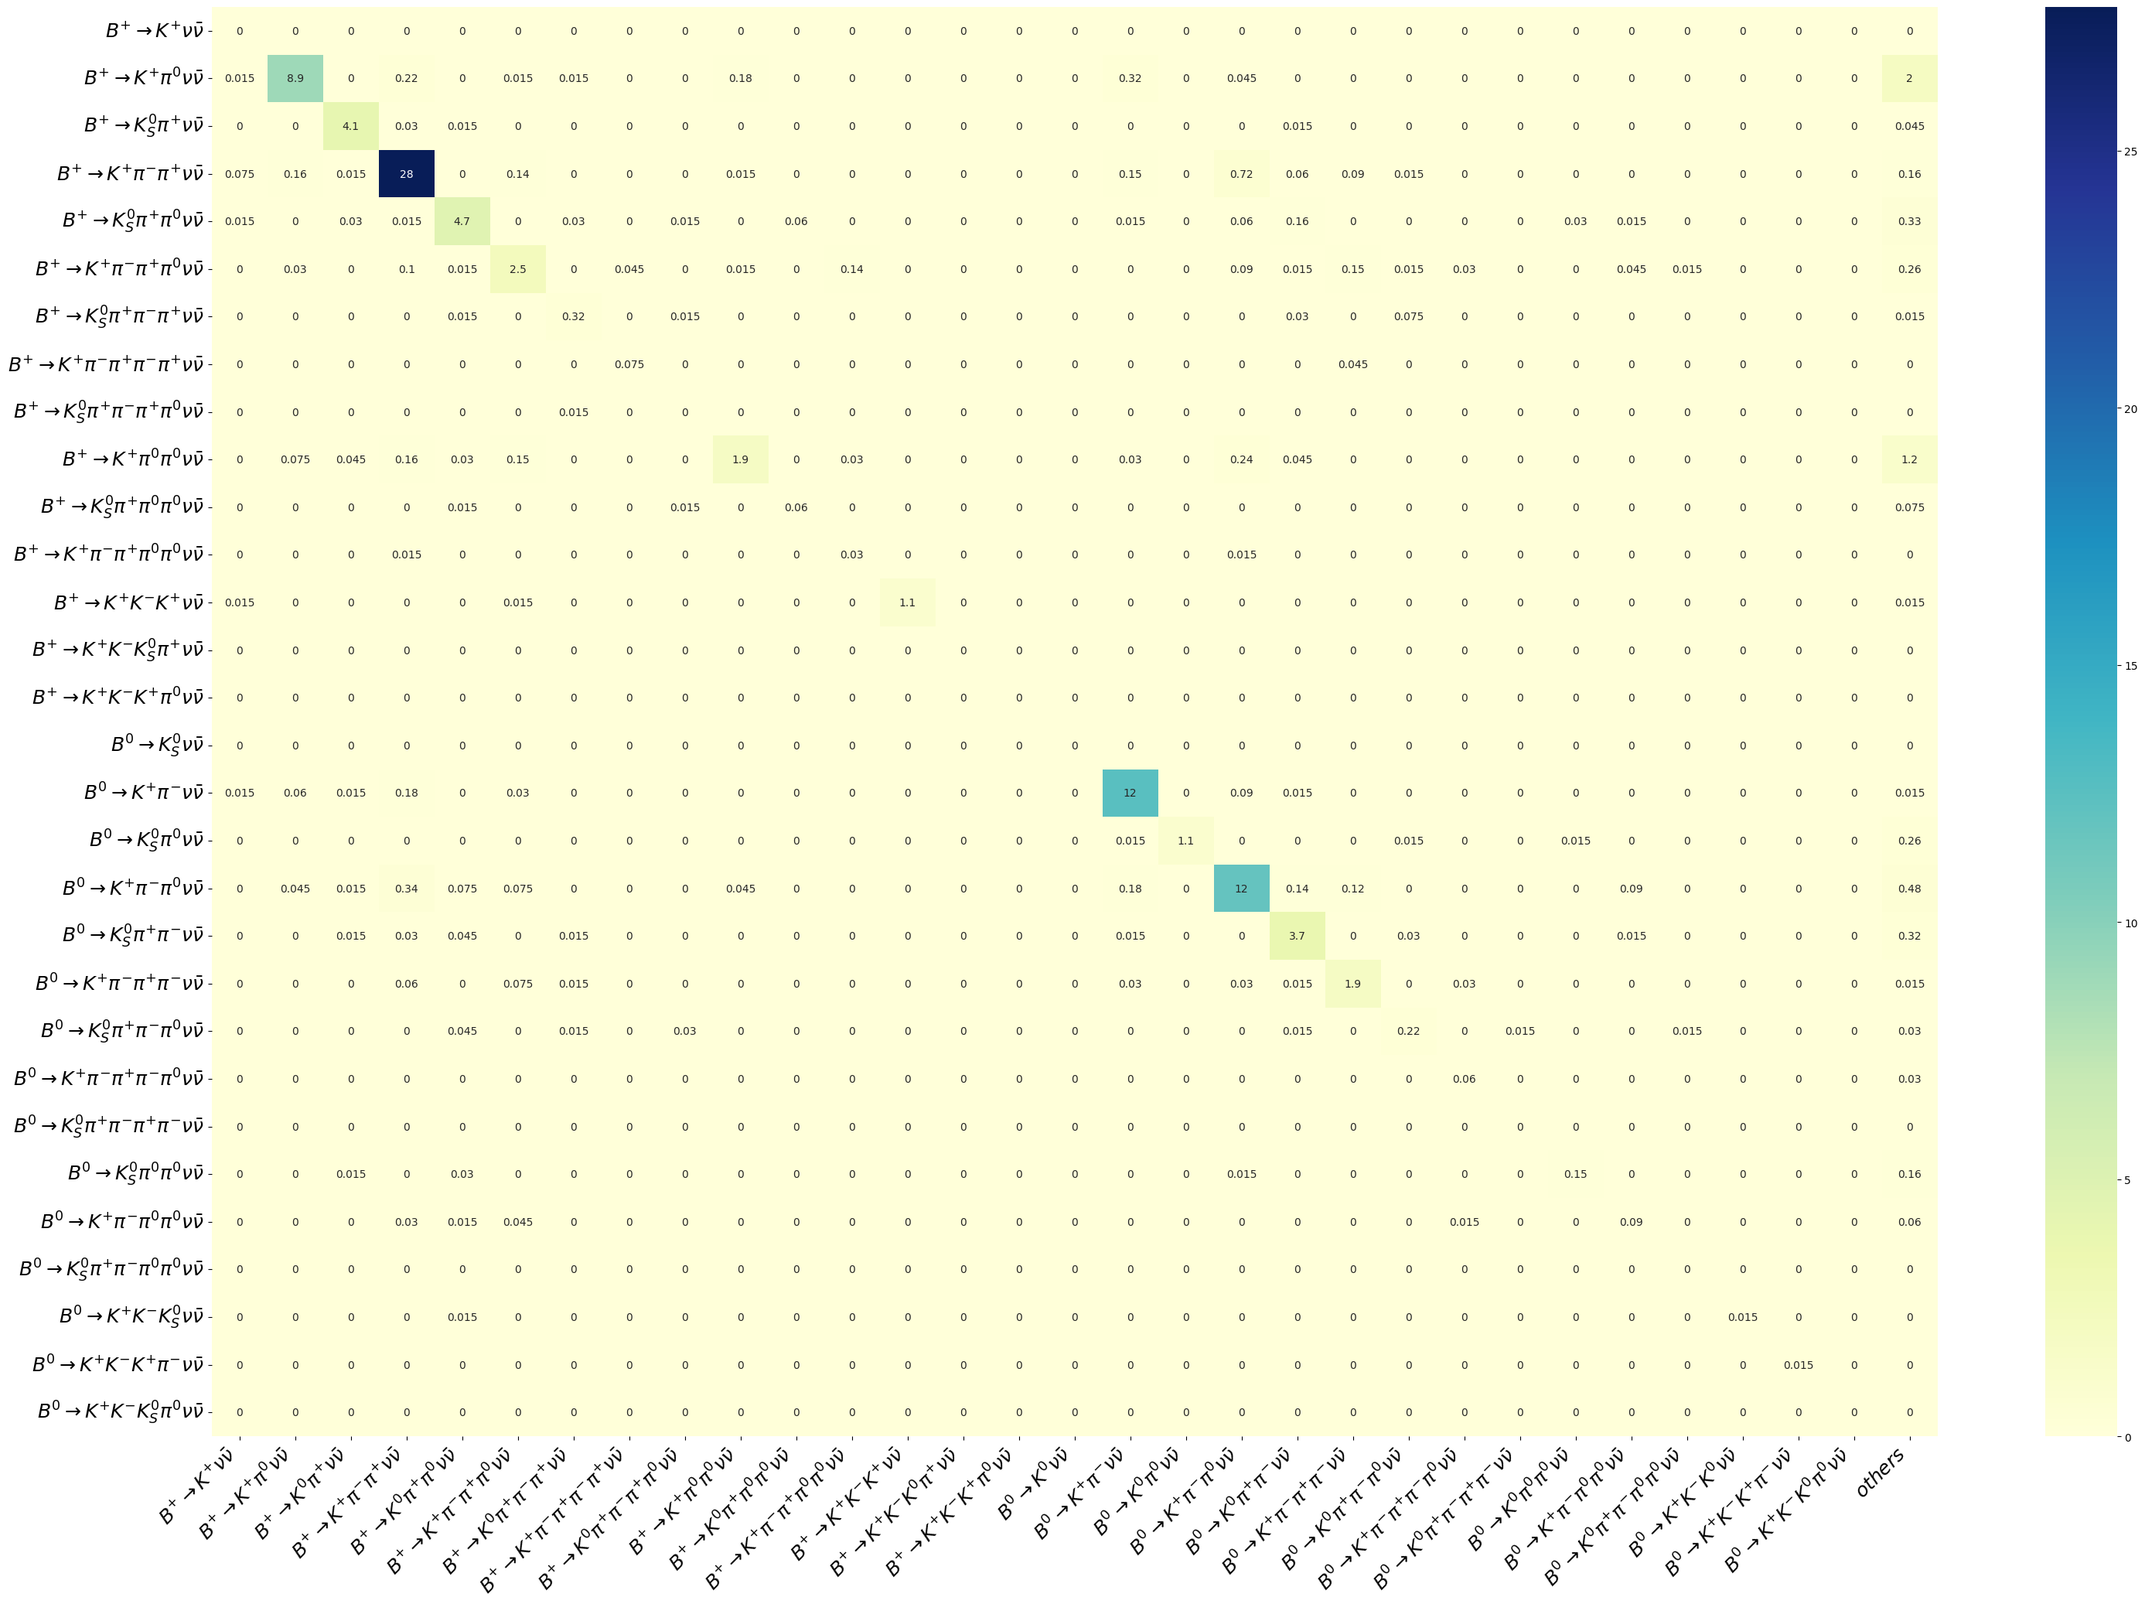
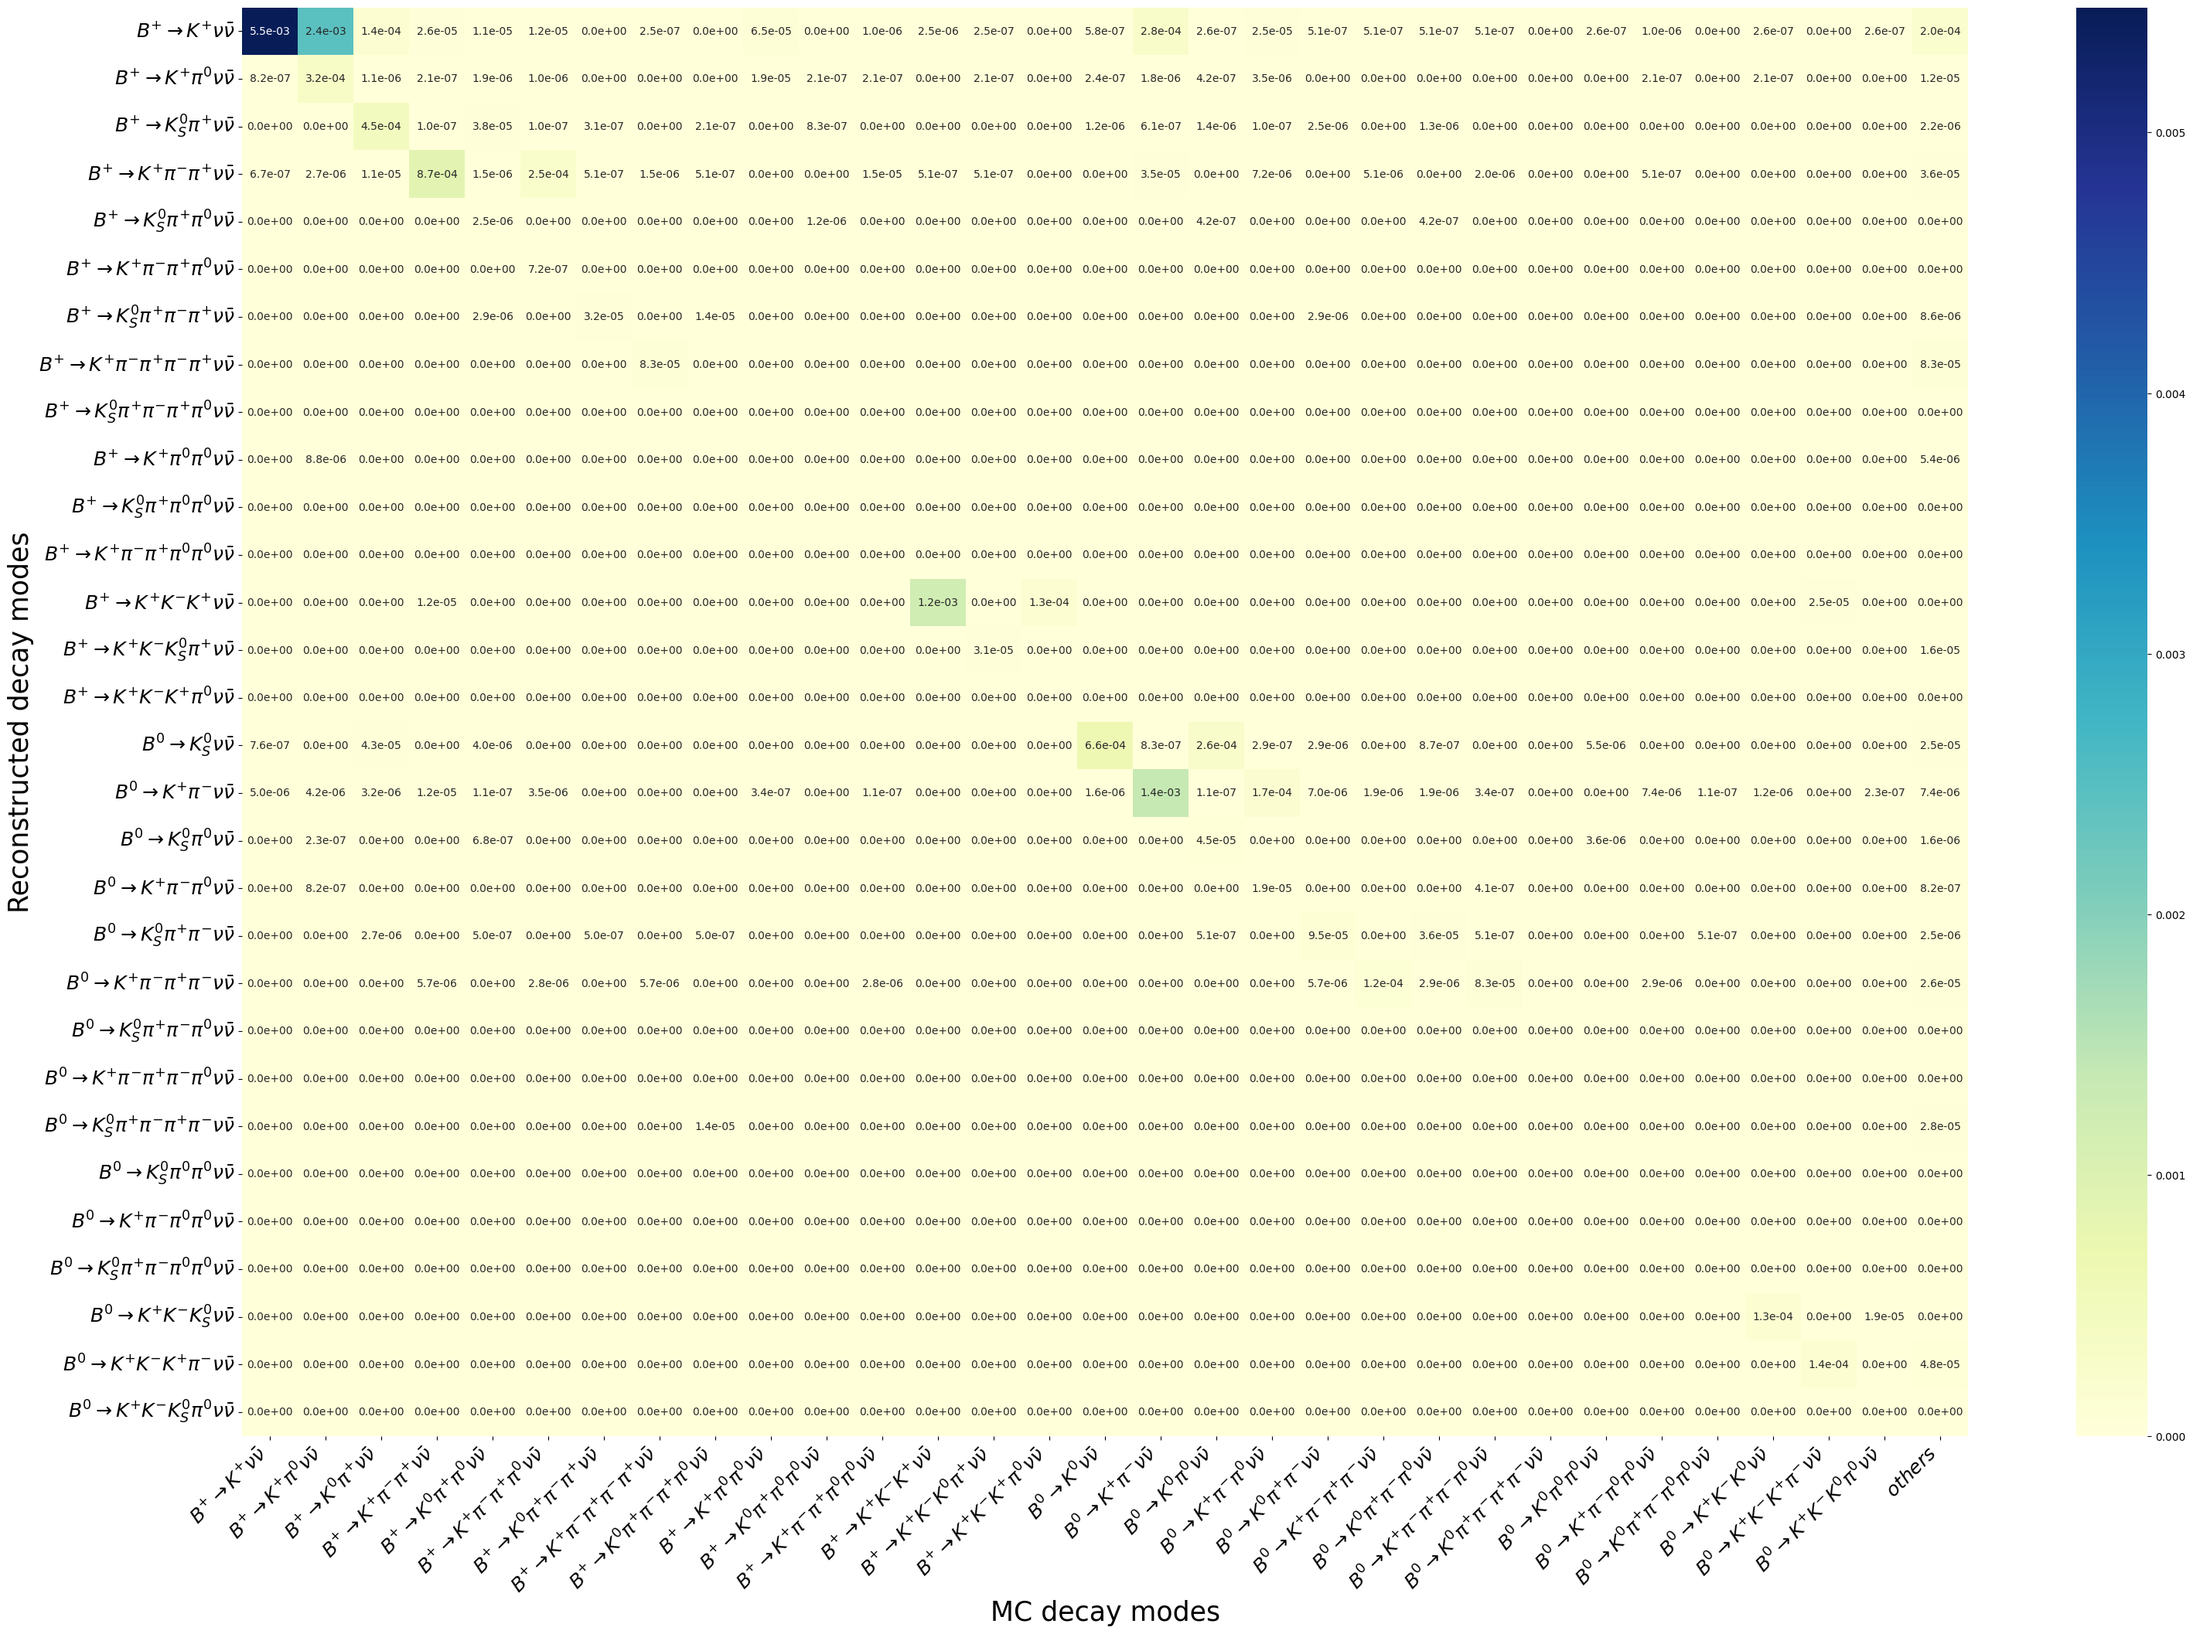
add histogram template drawer

diff --git a/HistFactory/template_draw.C b/HistFactory/template_draw.C
@@ -1,0 +1,204 @@
+#include <iostream>
+#include <stdio.h>
+
+#include "TRandom3.h"
+#include "TCanvas.h"
+#include "TDatime.h"
+#include "TStopwatch.h"
+#include "TLegend.h"
+#include "TIterator.h"
+#include "TH3.h"
+#include "TLatex.h"
+
+#include "RooChi2Var.h"
+#include "RooAbsData.h"
+#include "RooRealSumPdf.h"
+#include "RooPoisson.h"
+#include "RooGaussian.h"
+#include "RooRealVar.h"
+#include "RooMCStudy.h"
+#include "RooMinuit.h"
+#include "RooCategory.h"
+#include "RooHistPdf.h"
+#include "RooSimultaneous.h"
+#include "RooExtendPdf.h"
+#include "RooDataSet.h"
+#include "RooDataHist.h"
+#include "RooFitResult.h"
+#include "RooMsgService.h"
+#include "RooParamHistFunc.h"
+#include "RooHist.h"
+#include "RooRandom.h"
+
+#include "RooStats/ModelConfig.h"
+#include "RooStats/ToyMCSampler.h"
+#include "RooStats/MinNLLTestStat.h"
+
+#include "RooStats/HistFactory/FlexibleInterpVar.h"
+#include "RooStats/HistFactory/PiecewiseInterpolation.h"
+#include "RooStats/HistFactory/HistFactorySimultaneous.h"
+#include "RooStats/HistFactory/Channel.h"
+#include "RooStats/HistFactory/MakeModelAndMeasurementsFast.h"
+#include "RooStats/HistFactory/Measurement.h"
+#include "RooStats/HistFactory/ParamHistFunc.h"
+#include "RooStats/HistFactory/HistFactoryModelUtils.h"
+#include "RooStats/HistFactory/RooBarlowBeestonLL.h"
+
+using namespace RooFit;
+using namespace RooStats;
+using namespace HistFactory;
+
+using std::string;
+using std::to_string;
+
+// arXiv:1409.4557v2
+# define TB0 1.5195 // (Table. 1)
+# define TBp 1.6384 // (Table. 1)
+# define BR_Kplus_nunubar 0.00000398 // (eq. 10)
+# define BR_K0star_nunubar 0.00000919 // (eq. 11)
+# define BR_K0_nunubar (BR_Kplus_nunubar*TB0/TBp) // under (eq. 15)
+# define BR_Kplusstar_nunubar (BR_K0star_nunubar*TBp/TB0) // under (eq. 15)
+# define BR_Xs_nunubar 0.000029 // (eq. 23)
+# define BR_Xsu_nonresonant_nunubar (BR_Xs_nunubar - BR_Kplus_nunubar - BR_Kplusstar_nunubar)
+# define BR_Xsd_nonresonant_nunubar (BR_Xs_nunubar - BR_K0_nunubar - BR_K0star_nunubar)
+
+// uncertainty of BR from parametric reason
+# define Sigma_BR_Kplus_nunubar 0.00000019
+# define Sigma_BR_K0star_nunubar 0.00000050
+# define Sigma_BR_K0_nunubar (Sigma_BR_Kplus_nunubar*TB0/TBp)
+# define Sigma_BR_Kplusstar_nunubar (Sigma_BR_K0star_nunubar*TBp/TB0)
+# define Sigma_BR_Xs_nunubar 0.000003
+
+// https://confluence.desy.de/pages/viewpage.action?pageId=107054222
+# define N_BpBp_1invab 565400000.0
+# define N_B0B0_1invab 534600000.0
+
+# define N_Kplus_nunubar_1invab (2.0 * N_BpBp_1invab * BR_Kplus_nunubar)
+# define N_Kplusstar_nunubar_1invab (2.0 * N_BpBp_1invab * BR_Kplusstar_nunubar)
+# define N_Xsu_nonresonant_nunubar_1invab (2.0 * N_BpBp_1invab * BR_Xsu_nonresonant_nunubar)
+# define N_K0_nunubar_1invab (2.0 * N_B0B0_1invab * BR_K0_nunubar)
+# define N_K0star_nunubar_1invab (2.0 * N_B0B0_1invab * BR_K0star_nunubar)
+# define N_Xsd_nunubar_1invab (2.0 * N_B0B0_1invab * BR_Xsd_nonresonant_nunubar)
+
+# define Lumi_validation_MC 0.3 // ab-1
+
+// my MC sample number
+# define N_Kplus_nunubar 10000000.0
+# define N_K0_nunubar 10000000.0
+# define N_Kplusstar_nunubar 10000000.0
+# define N_K0star_nunubar 10000000.0
+# define N_Xsu_nonresonant_nunubar 50000000.0
+# define N_Xsd_nonresonant_nunubar 50000000.0
+
+// scale factor for each MC sample
+# define Scale_Kplus (N_Kplus_nunubar_1invab/N_Kplus_nunubar)
+# define Scale_Kplusstar (N_Kplusstar_nunubar_1invab/N_Kplusstar_nunubar)
+# define Scale_Xsu_nonresonant (N_Xsu_nonresonant_nunubar_1invab/N_Xsu_nonresonant_nunubar)
+# define Scale_K0 (N_K0_nunubar_1invab/N_K0_nunubar)
+# define Scale_K0star (N_K0star_nunubar_1invab/N_K0star_nunubar)
+# define Scale_Xsd_nonresonant (N_Xsd_nunubar_1invab/N_Xsd_nonresonant_nunubar)
+
+# define KS0_rel_uncertainty 0.6 // %/cm
+# define track_rel_uncertainty 0.69 // %
+# define pi0_correction 0.932
+# define pi0_rel_uncertainty ((0.0369 / 0.932) * 100.0) // %
+# define Kaon_PID_max_uncertainty 0.1 // not percentage. relative uncertainty
+// https://indico.belle2.org/event/6872/contributions/37447/attachments/17127/25504/FEIperformance_B2GM.pdf
+# define FEI_cal_Bc 0.679
+# define FEI_cal_Bc_uncertainty (0.017/FEI_cal_Bc) // not percentage. relative uncertainty
+# define FEI_cal_B0 0.713
+# define FEI_cal_B0_uncertainty (0.019/FEI_cal_B0) // not percentage. relative uncertainty
+
+//# define Htransition_Xsu_change (-0.142)
+//# define Htransition_Xsd_change (-0.099)
+//# define Ltransition_Xsu_change (-0.002)
+//# define Ltransition_Xsd_change (0.067)
+//# define Hmb_Xsu_change (-0.067)
+//# define Hmb_Xsd_change (-0.058)
+//# define Lmb_Xsu_change (-0.062)
+//# define Lmb_Xsd_change (-0.046)
+//# define Hpf_Xsu_change (-0.120)
+//# define Hpf_Xsd_change (-0.073)
+//# define Lpf_Xsu_change (-0.014)
+//# define Lpf_Xsd_change (0.019)
+
+//# define FEI_cal_Bc 1.0
+//# define FEI_cal_Bc_uncertainty 0.0
+//# define FEI_cal_B0 1.0
+//# define FEI_cal_B0_uncertainty 0.0
+
+//# define Htransition_Xsu_change 0.0
+//# define Htransition_Xsd_change 0.0
+//# define Ltransition_Xsu_change 0.0
+//# define Ltransition_Xsd_change 0.0
+//# define Hmb_Xsu_change 0.0
+//# define Hmb_Xsd_change 0.0
+//# define Lmb_Xsu_change 0.0
+//# define Lmb_Xsd_change 0.0
+//# define Hpf_Xsu_change 0.0
+//# define Hpf_Xsd_change 0.0
+//# define Lpf_Xsu_change 0.0
+//# define Lpf_Xsd_change 0.0
+
+# define RarityBins 10
+
+int template_draw() {
+
+	const char* fname = "PDFandDATA_10.root";
+
+	TFile* f = new TFile(fname, "read");
+
+
+	TH1D* signal_hist = (TH1D*) f->Get("Signal_nominal");
+	TH1D* chg_hist = (TH1D*)f->Get("CHG_nominal");
+	TH1D* mix_hist = (TH1D*)f->Get("MIX_nominal");
+	TH1D* uubar_hist = (TH1D*)f->Get("UUBAR_nominal");
+	TH1D* ddbar_hist = (TH1D*)f->Get("DDBAR_nominal");
+	TH1D* ssbar_hist = (TH1D*)f->Get("SSBAR_nominal");
+	TH1D* charm_hist = (TH1D*)f->Get("CHARM_nominal");
+
+	TCanvas* c_temp = new TCanvas("c", "", 800, 800);
+	signal_hist->SetStats(false);
+	signal_hist->GetYaxis()->SetRangeUser(0., 2.3);
+	signal_hist->SetFillColor(kBlue + 1);
+	signal_hist->SetLineWidth(0);
+	signal_hist->Draw("hist");
+	c_temp->SaveAs("signal_hist.png");
+
+	THStack* Stack = new THStack("thstack", ";transformed FBDT_{1};number of candidates");
+
+	chg_hist->SetFillColor(kRed + 1);
+	chg_hist->SetLineWidth(0);
+
+	mix_hist->SetFillColor(kOrange + 1);
+	mix_hist->SetLineWidth(0);
+
+	uubar_hist->SetFillColor(kGreen + 1);
+	uubar_hist->SetLineWidth(0);
+
+	ddbar_hist->SetFillColor(kAzure + 1);
+	ddbar_hist->SetLineWidth(0);
+
+	ssbar_hist->SetFillColor(kViolet + 1);
+	ssbar_hist->SetLineWidth(0);
+
+	charm_hist->SetFillColor(kPink + 1);
+	charm_hist->SetLineWidth(0);
+
+	Stack->Add(chg_hist);
+	Stack->Add(mix_hist);
+	Stack->Add(uubar_hist);
+	Stack->Add(ddbar_hist);
+	Stack->Add(ssbar_hist);
+	Stack->Add(charm_hist);
+
+	Stack->Draw("hist");
+
+	TLegend* legend = gPad->BuildLegend(0.9, 0.9, 0.7, 0.7);
+	legend->SetFillStyle(0);
+	legend->SetLineWidth(0);
+
+	c_temp->SaveAs("bkgs_hist.png");
+
+	return 0;
+}

diff --git a/Belle2/Efficiency_Matrix.py b/Belle2/Efficiency_Matrix.py
@@ -44,71 +44,71 @@ reco_list = [r"$B^{+}\rightarrow K^{+}\nu\bar{\nu}$",
              r"$B^{0}\rightarrow K^{+}K^{-}K^{+}\pi^{-}\nu\bar{\nu}$",
              r"$B^{0}\rightarrow K^{+}K^{-}K^{0}_{S}\pi^{0}\nu\bar{\nu}$"
              ]
-gen_list = [r"$B^{+}\rightarrow K^{+}J/\psi$",
-            r"$B^{+}\rightarrow K^{+}\pi^{0}J/\psi$",
-            r"$B^{+}\rightarrow K^{0}\pi^{+}J/\psi$",      
-            r"$B^{+}\rightarrow K^{+}\pi^{-}\pi^{+}J/\psi$",
-            r"$B^{+}\rightarrow K^{0}\pi^{+}\pi^{0}J/\psi$",
-            r"$B^{+}\rightarrow K^{+}\pi^{-}\pi^{+}\pi^{0}J/\psi$",
-            r"$B^{+}\rightarrow K^{0}\pi^{+}\pi^{-}\pi^{+}J/\psi$",   
-            r"$B^{+}\rightarrow K^{+}\pi^{-}\pi^{+}\pi^{-}\pi^{+}J/\psi$",
-            r"$B^{+}\rightarrow K^{0}\pi^{+}\pi^{-}\pi^{+}\pi^{0}J/\psi$",
-            r"$B^{+}\rightarrow K^{+}\pi^{0}\pi^{0}J/\psi$",
-            r"$B^{+}\rightarrow K^{0}\pi^{+}\pi^{0}\pi^{0}J/\psi$",
-            r"$B^{+}\rightarrow K^{+}\pi^{-}\pi^{+}\pi^{0}\pi^{0}J/\psi$",
-            r"$B^{+}\rightarrow K^{+}K^{-}K^{+}J/\psi$",
-            r"$B^{+}\rightarrow K^{+}K^{-}K^{0}\pi^{+}J/\psi$",
-            r"$B^{+}\rightarrow K^{+}K^{-}K^{+}\pi^{0}J/\psi$",
-            r"$B^{0}\rightarrow K^{0}J/\psi$",
-            r"$B^{0}\rightarrow K^{+}\pi^{-}J/\psi$",
-            r"$B^{0}\rightarrow K^{0}\pi^{0}J/\psi$",
-            r"$B^{0}\rightarrow K^{+}\pi^{-}\pi^{0}J/\psi$",
-            r"$B^{0}\rightarrow K^{0}\pi^{+}\pi^{-}J/\psi$",
-            r"$B^{0}\rightarrow K^{+}\pi^{-}\pi^{+}\pi^{-}J/\psi$",
-            r"$B^{0}\rightarrow K^{0}\pi^{+}\pi^{-}\pi^{0}J/\psi$",
-            r"$B^{0}\rightarrow K^{+}\pi^{-}\pi^{+}\pi^{-}\pi^{0}J/\psi$",
-            r"$B^{0}\rightarrow K^{0}\pi^{+}\pi^{-}\pi^{+}\pi^{-}J/\psi$",
-            r"$B^{0}\rightarrow K^{0}\pi^{0}\pi^{0}J/\psi$",
-            r"$B^{0}\rightarrow K^{+}\pi^{-}\pi^{0}\pi^{0}J/\psi$",
-            r"$B^{0}\rightarrow K^{0}\pi^{+}\pi^{-}\pi^{0}\pi^{0}J/\psi$",
-            r"$B^{0}\rightarrow K^{+}K^{-}K^{0}J/\psi$",
-            r"$B^{0}\rightarrow K^{+}K^{-}K^{+}\pi^{-}J/\psi$",
-            r"$B^{0}\rightarrow K^{+}K^{-}K^{0}\pi^{0}J/\psi$",
+gen_list = [r"$B^{+}\rightarrow K^{+}\nu\bar{\nu}$",
+            r"$B^{+}\rightarrow K^{+}\pi^{0}\nu\bar{\nu}$",
+            r"$B^{+}\rightarrow K^{0}\pi^{+}\nu\bar{\nu}$",      
+            r"$B^{+}\rightarrow K^{+}\pi^{-}\pi^{+}\nu\bar{\nu}$",
+            r"$B^{+}\rightarrow K^{0}\pi^{+}\pi^{0}\nu\bar{\nu}$",
+            r"$B^{+}\rightarrow K^{+}\pi^{-}\pi^{+}\pi^{0}\nu\bar{\nu}$",
+            r"$B^{+}\rightarrow K^{0}\pi^{+}\pi^{-}\pi^{+}\nu\bar{\nu}$",   
+            r"$B^{+}\rightarrow K^{+}\pi^{-}\pi^{+}\pi^{-}\pi^{+}\nu\bar{\nu}$",
+            r"$B^{+}\rightarrow K^{0}\pi^{+}\pi^{-}\pi^{+}\pi^{0}\nu\bar{\nu}$",
+            r"$B^{+}\rightarrow K^{+}\pi^{0}\pi^{0}\nu\bar{\nu}$",
+            r"$B^{+}\rightarrow K^{0}\pi^{+}\pi^{0}\pi^{0}\nu\bar{\nu}$",
+            r"$B^{+}\rightarrow K^{+}\pi^{-}\pi^{+}\pi^{0}\pi^{0}\nu\bar{\nu}$",
+            r"$B^{+}\rightarrow K^{+}K^{-}K^{+}\nu\bar{\nu}$",
+            r"$B^{+}\rightarrow K^{+}K^{-}K^{0}\pi^{+}\nu\bar{\nu}$",
+            r"$B^{+}\rightarrow K^{+}K^{-}K^{+}\pi^{0}\nu\bar{\nu}$",
+            r"$B^{0}\rightarrow K^{0}\nu\bar{\nu}$",
+            r"$B^{0}\rightarrow K^{+}\pi^{-}\nu\bar{\nu}$",
+            r"$B^{0}\rightarrow K^{0}\pi^{0}\nu\bar{\nu}$",
+            r"$B^{0}\rightarrow K^{+}\pi^{-}\pi^{0}\nu\bar{\nu}$",
+            r"$B^{0}\rightarrow K^{0}\pi^{+}\pi^{-}\nu\bar{\nu}$",
+            r"$B^{0}\rightarrow K^{+}\pi^{-}\pi^{+}\pi^{-}\nu\bar{\nu}$",
+            r"$B^{0}\rightarrow K^{0}\pi^{+}\pi^{-}\pi^{0}\nu\bar{\nu}$",
+            r"$B^{0}\rightarrow K^{+}\pi^{-}\pi^{+}\pi^{-}\pi^{0}\nu\bar{\nu}$",
+            r"$B^{0}\rightarrow K^{0}\pi^{+}\pi^{-}\pi^{+}\pi^{-}\nu\bar{\nu}$",
+            r"$B^{0}\rightarrow K^{0}\pi^{0}\pi^{0}\nu\bar{\nu}$",
+            r"$B^{0}\rightarrow K^{+}\pi^{-}\pi^{0}\pi^{0}\nu\bar{\nu}$",
+            r"$B^{0}\rightarrow K^{0}\pi^{+}\pi^{-}\pi^{0}\pi^{0}\nu\bar{\nu}$",
+            r"$B^{0}\rightarrow K^{+}K^{-}K^{0}\nu\bar{\nu}$",
+            r"$B^{0}\rightarrow K^{+}K^{-}K^{+}\pi^{-}\nu\bar{\nu}$",
+            r"$B^{0}\rightarrow K^{+}K^{-}K^{0}\pi^{0}\nu\bar{\nu}$",
             r"$others$"
             ]
 
 correction = []
-correction.append(1353401.0)
-correction.append(880864.0)
-correction.append(1753251.0)
-correction.append(1973940.0)
-correction.append(2214036.0)
-correction.append(1223776.0)
-correction.append(461945.0)
-correction.append(286674.0)
-correction.append(378742.0)
-correction.append(452343.0)
-correction.append(321948.0)
-correction.append(341842.0)
-correction.append(77819.0)
-correction.append(42265.0)
-correction.append(21917.0)
-correction.append(1.0)
-correction.append(1659619.0)
-correction.append(295577.0)
-correction.append(1971422.0)
-correction.append(2604225.0)
-correction.append(960194.0)
-correction.append(1155456.0)
-correction.append(363364.0)
-correction.append(170813.0)
-correction.append(251427.0)
-correction.append(306204.0)
-correction.append(270138.0)
-correction.append(61690.0)
-correction.append(28477.0)
-correction.append(21410.0)
-correction.append(7591203.0)
+correction.append(1350.0)
+correction.append(1651.6)
+correction.append(3300.4)
+correction.append(673.9)
+correction.append(825.3)
+correction.append(473.3)
+correction.append(119.1)
+correction.append(24.6)
+correction.append(148.2)
+correction.append(127.6)
+correction.append(102.9)
+correction.append(91.8)
+correction.append(54.8)
+correction.append(21.7)
+correction.append(11.0)
+correction.append(1184.0)
+correction.append(3034.7)
+correction.append(1515.9)
+correction.append(835.5)
+correction.append(677.4)
+correction.append(120.5)
+correction.append(475.9)
+correction.append(149.8)
+correction.append(25.0)
+correction.append(129.2)
+correction.append(104.4)
+correction.append(92.4)
+correction.append(54.9)
+correction.append(14.5)
+correction.append(10.9)
+correction.append(1738.5)
 
 for i in range(0,30):
     for j in range(0,31):
@@ -121,4 +121,6 @@ plt.figure(figsize = (36,24))
 ax = sn.heatmap(df_cm, annot=True, cmap="YlGnBu", fmt='.1e')
 ax.set_xticklabels(ax.get_xticklabels(), rotation=45, fontsize = 18, horizontalalignment='right')
 ax.set_yticklabels(ax.get_yticklabels(), fontsize = 18)
+plt.xlabel(r"MC decay modes", fontsize=25)
+plt.ylabel(r"Reconstructed decay modes", fontsize=25)
 plt.savefig("eff_matrix.png", bbox_inches='tight')
